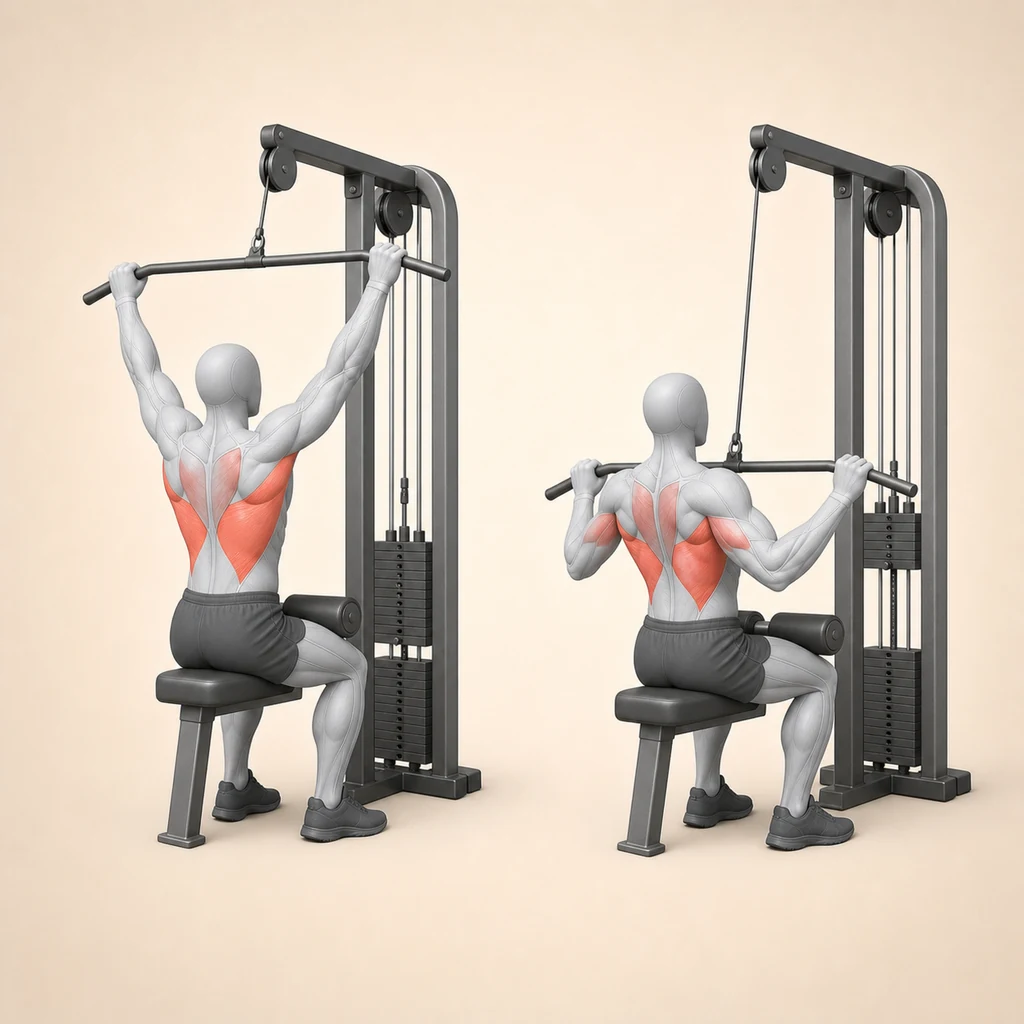
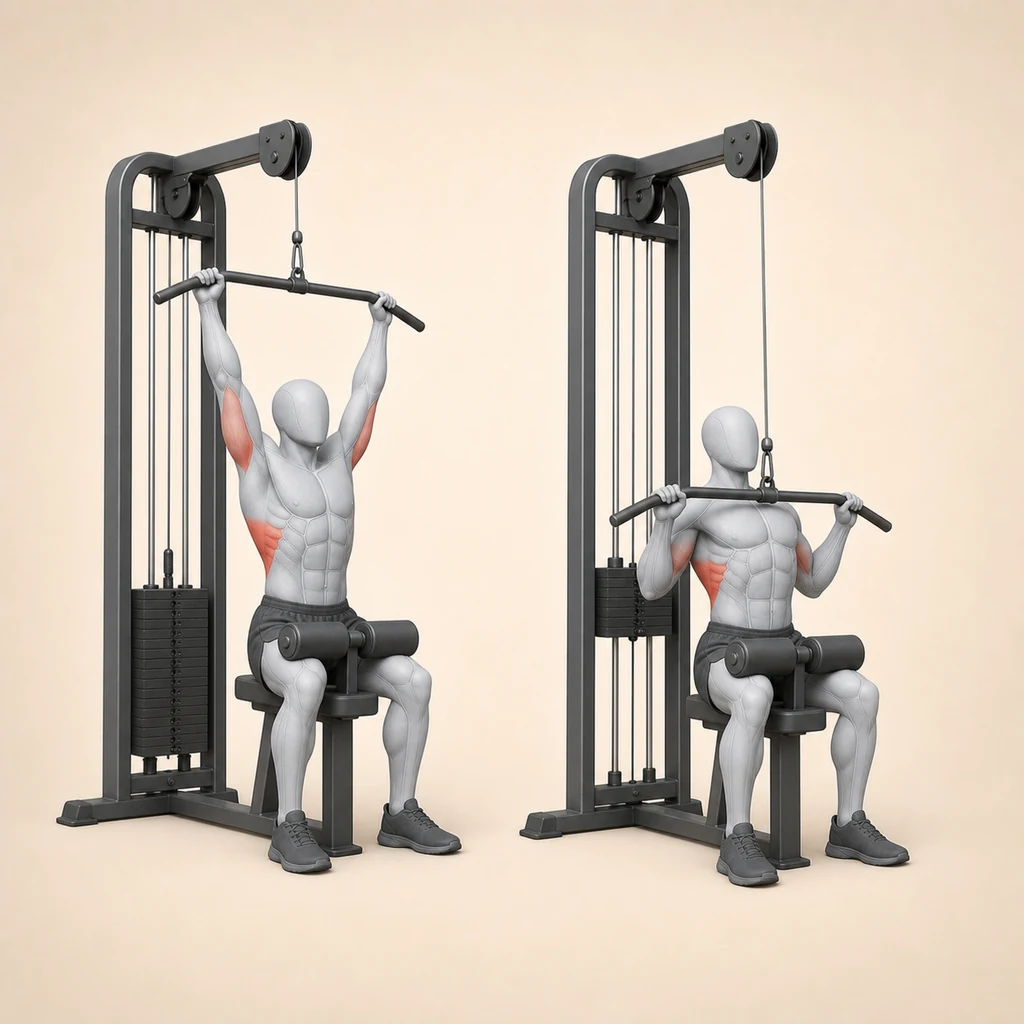
fix: harden exercise visual pilot

diff --git a/src/lib/exercises/__tests__/visualPilot.test.ts b/src/lib/exercises/__tests__/visualPilot.test.ts
@@ -1,55 +1,64 @@
 import { describe, expect, it } from 'vitest'
-import { validatePilotManifest } from '../visualPilot'
+import { PILOT_EXERCISE_SLUGS, validatePilotManifest } from '../visualPilot'
+
+function entry(slug: (typeof PILOT_EXERCISE_SLUGS)[number]) {
+  return {
+    slug,
+    nameEs: slug,
+    nameEn: slug,
+    pattern: 'patrón',
+    equipment: ['equipo'],
+    primaryMuscles: ['principal'],
+    secondaryMuscles: ['secundario'],
+    startPosition: 'Posición inicial.',
+    endPosition: 'Posición final.',
+    techniqueChecks: ['Control técnico'],
+    status: 'draft',
+    assets: {
+      source: `/exercises/pilot/${slug}/source.png`,
+      poster: `/exercises/pilot/${slug}/poster.webp`,
+      ...(slug === 'arnold-press-mancuernas'
+        ? { motionPreview: `/exercises/pilot/${slug}/motion-preview.webp` }
+        : {}),
+    },
+  }
+}
 
 const validManifest = {
   version: 1,
   generatedAt: '2026-08-24',
   visualStyle: 'vekira-anatomical-3d-v1',
-  exercises: [
-    {
-      slug: 'arnold-press-mancuernas',
-      nameEs: 'Arnold Press sentado con mancuernas',
-      nameEn: 'Seated Arnold Dumbbell Press',
-      pattern: 'empuje-vertical',
-      equipment: ['mancuernas', 'banco'],
-      primaryMuscles: ['deltoides anterior', 'deltoides lateral'],
-      secondaryMuscles: ['tríceps'],
-      startPosition: 'Sentado, mancuernas a la altura de los hombros y palmas hacia el cuerpo.',
-      endPosition: 'Brazos elevados sobre la cabeza y palmas orientadas al frente.',
-      techniqueChecks: ['Columna neutra', 'Pies apoyados', 'Rotación progresiva de las manos'],
-      status: 'visual-approved',
-      assets: {
-        source: '/exercises/pilot/arnold-press-mancuernas/source.png',
-        poster: '/exercises/pilot/arnold-press-mancuernas/poster.webp',
-        motionPreview: '/exercises/pilot/arnold-press-mancuernas/motion-preview.webp',
-      },
-    },
-  ],
+  exercises: PILOT_EXERCISE_SLUGS.map(entry),
 }
 
 describe('validatePilotManifest', () => {
-  it('accepts a complete pilot manifest entry', () => {
+  it('accepts the exact five-exercise pilot manifest', () => {
     expect(validatePilotManifest(validManifest)).toEqual([])
+  })
+
+  it('requires the exact set of five pilot exercises', () => {
+    const incomplete = { ...validManifest, exercises: validManifest.exercises.slice(0, 4) }
+
+    expect(validatePilotManifest(incomplete)).toContain(
+      'exercises must contain exactly the five supported pilot slugs',
+    )
   })
 
   it('rejects a duplicate slug', () => {
     const duplicate = {
       ...validManifest,
-      exercises: [validManifest.exercises[0], validManifest.exercises[0]],
+      exercises: [...validManifest.exercises, validManifest.exercises[0]],
     }
 
-    expect(validatePilotManifest(duplicate)).toContain('exercises[1].slug must be unique')
+    expect(validatePilotManifest(duplicate)).toContain('exercises[5].slug must be unique')
   })
 
   it('rejects asset paths outside the pilot root', () => {
     const outsidePilot = {
       ...validManifest,
-      exercises: [
-        {
-          ...validManifest.exercises[0],
-          assets: { ...validManifest.exercises[0].assets, poster: '/other/poster.webp' },
-        },
-      ],
+      exercises: validManifest.exercises.map((exercise, index) => index === 0
+        ? { ...exercise, assets: { ...exercise.assets, poster: '/other/poster.webp' } }
+        : exercise),
     }
 
     expect(validatePilotManifest(outsidePilot)).toContain(
@@ -57,14 +66,54 @@ describe('validatePilotManifest', () => {
     )
   })
 
+  it('rejects an asset stored beneath another exercise slug', () => {
+    const wrongExerciseDirectory = {
+      ...validManifest,
+      exercises: validManifest.exercises.map((exercise, index) => index === 0
+        ? {
+            ...exercise,
+            assets: {
+              ...exercise.assets,
+              source: '/exercises/pilot/press-banca-barra/source.png',
+            },
+          }
+        : exercise),
+    }
+
+    expect(validatePilotManifest(wrongExerciseDirectory)).toContain(
+      'exercises[0].assets.source must start with /exercises/pilot/sentadilla-trasera-barra/',
+    )
+  })
+
+  it('rejects asset paths reused by two exercises', () => {
+    const duplicatedAsset = {
+      ...validManifest,
+      exercises: validManifest.exercises.map((exercise, index) => index === 1
+        ? {
+            ...exercise,
+            assets: {
+              ...exercise.assets,
+              source: validManifest.exercises[0].assets.source,
+            },
+          }
+        : exercise),
+    }
+
+    expect(validatePilotManifest(duplicatedAsset)).toContain(
+      'exercises[1].assets.source must be unique',
+    )
+  })
+
   it('rejects an experimental motion preview marked as published', () => {
     const published = {
       ...validManifest,
-      exercises: [{ ...validManifest.exercises[0], status: 'published' }],
+      exercises: validManifest.exercises.map(exercise => exercise.slug === 'arnold-press-mancuernas'
+        ? { ...exercise, status: 'published' }
+        : exercise),
     }
 
     expect(validatePilotManifest(published)).toContain(
-      'exercises[0] with motionPreview must remain draft or visual-approved in the pilot',
+      'exercises[3] with motionPreview must remain draft or visual-approved in the pilot',
     )
   })
 })

diff --git a/src/lib/exercises/visualPilot.ts b/src/lib/exercises/visualPilot.ts
@@ -68,7 +68,21 @@ export function validatePilotManifest(value: unknown): string[] {
     return errors
   }
 
+  const providedSlugs = new Set(
+    value.exercises
+      .map(candidate => isRecord(candidate) ? candidate.slug : undefined)
+      .filter(isNonEmptyString),
+  )
+  if (
+    value.exercises.length !== PILOT_EXERCISE_SLUGS.length
+    || providedSlugs.size !== PILOT_EXERCISE_SLUGS.length
+    || PILOT_EXERCISE_SLUGS.some(slug => !providedSlugs.has(slug))
+  ) {
+    errors.push('exercises must contain exactly the five supported pilot slugs')
+  }
+
   const seenSlugs = new Set<string>()
+  const seenAssetPaths = new Set<string>()
 
   value.exercises.forEach((candidate, index) => {
     const prefix = `exercises[${index}]`
@@ -122,7 +136,15 @@ export function validatePilotManifest(value: unknown): string[] {
       if (!path.startsWith('/exercises/pilot/')) {
         errors.push(`${prefix}.assets.${field} must start with /exercises/pilot/`)
       }
+      if (isNonEmptyString(slug) && !path.startsWith(`/exercises/pilot/${slug}/`)) {
+        errors.push(`${prefix}.assets.${field} must start with /exercises/pilot/${slug}/`)
+      }
       if (!path.endsWith(suffix)) errors.push(`${prefix}.assets.${field} must end with ${suffix}`)
+      if (seenAssetPaths.has(path)) {
+        errors.push(`${prefix}.assets.${field} must be unique`)
+      } else {
+        seenAssetPaths.add(path)
+      }
     }
 
     if (

diff --git a/scripts/__tests__/test_build_exercise_motion_preview.py b/scripts/__tests__/test_build_exercise_motion_preview.py
@@ -4,7 +4,7 @@ import tempfile
 import unittest
 from pathlib import Path
 
-from PIL import Image, ImageDraw
+from PIL import Image, ImageColor, ImageDraw
 
 
 class BuildExerciseMotionPreviewTest(unittest.TestCase):
@@ -40,6 +40,22 @@ class BuildExerciseMotionPreviewTest(unittest.TestCase):
                 self.assertTrue(animation.is_animated)
                 self.assertEqual(animation.n_frames, 10)
                 self.assertEqual(animation.size, (512, 512))
+                expected_indexes = [0, 1, 2, 3, 4, 3, 2, 1, 0, 1]
+                actual_indexes = []
+                reference_colors = [ImageColor.getrgb(color) for color in colors]
+                for frame_index in range(animation.n_frames):
+                    animation.seek(frame_index)
+                    pixel = animation.convert("RGB").getpixel((256, 256))
+                    nearest = min(
+                        range(len(reference_colors)),
+                        key=lambda color_index: sum(
+                            (pixel[channel] - reference_colors[color_index][channel]) ** 2
+                            for channel in range(3)
+                        ),
+                    )
+                    actual_indexes.append(nearest)
+
+                self.assertEqual(actual_indexes, expected_indexes)
 
 
 if __name__ == "__main__":

diff --git a/scripts/build-exercise-motion-preview.py b/scripts/build-exercise-motion-preview.py
@@ -36,7 +36,11 @@ def build_motion_preview(source: Path, output: Path) -> None:
     with Image.open(source) as sheet:
         forward_frames = crop_six_frames(sheet)
 
-    loop_frames = forward_frames + [forward_frames[index].copy() for index in (4, 3, 2, 1)]
+    # The generated sixth panel is an experimental return pose and can drift back to the
+    # starting position. Build a deterministic ping-pong loop from the five verified ascent
+    # poses so the transition never jumps directly from start to full extension.
+    animation_indexes = (0, 1, 2, 3, 4, 3, 2, 1, 0, 1)
+    loop_frames = [forward_frames[index].copy() for index in animation_indexes]
     output.parent.mkdir(parents=True, exist_ok=True)
     loop_frames[0].save(
         output,
